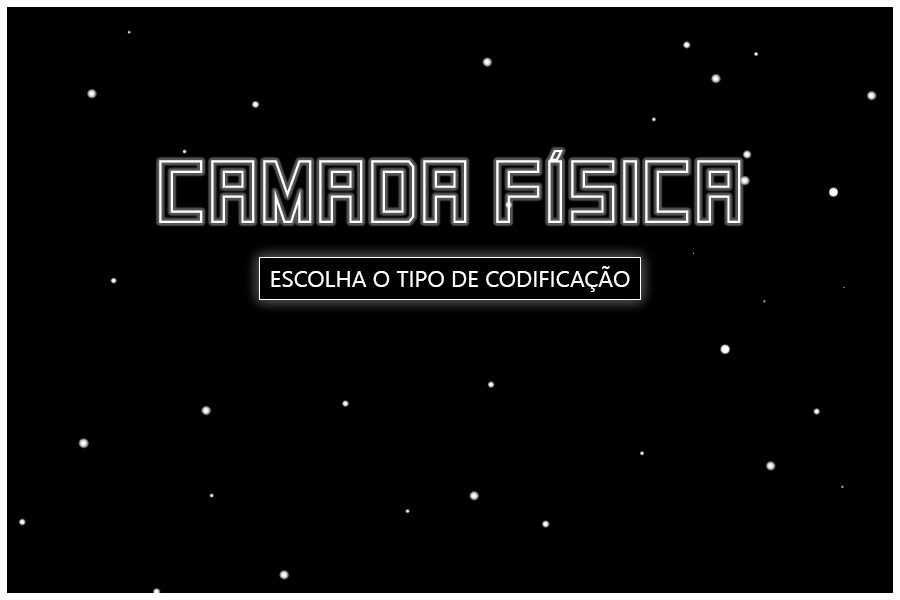
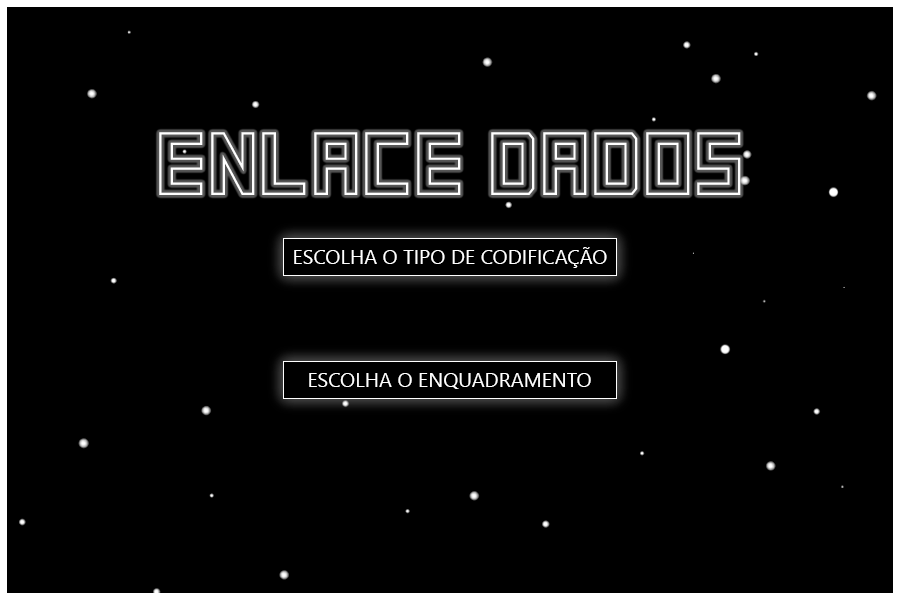
enquad options

Changed region(s): [[0.1556, 0.21, 0.84, 0.51], [0.28, 0.57, 0.7156, 0.69]]

diff --git a/img/style.css b/img/style.css
@@ -5,6 +5,13 @@
     -fx-border-width: 4px;
     -fx-border-color: rgb(255, 255, 255);
 }
+#enlaceBox{
+    -fx-background-color: rgb(0, 0, 0);
+    -fx-font: 14pt "Arial";
+    -fx-font-weight: bold;
+    -fx-border-width: 4px;
+    -fx-border-color: rgb(255, 255, 255);
+}
 #iniciar{
     -fx-background-color: rgb(0, 0, 0);
     -fx-font: 14pt "Arial";

diff --git a/controller/MainControl.java b/controller/MainControl.java
@@ -20,6 +20,7 @@ public class MainControl implements Initializable {
     @FXML private Button voltar;
     @FXML private Button sendButton;
     @FXML private ChoiceBox<String> optionsBox;
+    @FXML private ChoiceBox<String> enlaceBox;
 
     @FXML private TextArea outputText;
     @FXML private TextArea inputText;
@@ -56,6 +57,7 @@ public class MainControl implements Initializable {
 
     //Instanciando a string que vai receber a opcao selecionada no choiceBox
     private String selectedMethod = "";
+    private String selectedEnquad = "";
     String comparationSignal = "1";
     int comparationBinary = 0;
 
@@ -65,6 +67,7 @@ public class MainControl implements Initializable {
     private ImageView transitionImgs[];
 
     private int option;
+    private int enquadOption;
     private int lastBit = 0; 
     int NumCaracteres = 0;
 
@@ -73,12 +76,21 @@ public class MainControl implements Initializable {
       selectedMethod = optionsBox.getSelectionModel().getSelectedItem();
     }
 
+    @FXML
+    void enlaceList(ActionEvent event) {
+      selectedEnquad = enlaceBox.getSelectionModel().getSelectedItem();
+    }
+
     @Override
     public void initialize(URL location, ResourceBundle resources) {
       optionsBox.getItems().addAll("Cod. Binaria", "Cod. Manchester", "Cod. Manchester Diferencial");
-
       //adiciona listeners para as ChoiceBox
       optionsBox.setOnAction(event -> optionsList(event));
+
+      enlaceBox.getItems().addAll("Contagem de caracteres", "Insercao de bytes", "Insercao de bits", "Violacao da Camada Fisica");
+
+      //adiciona listeners para as ChoiceBox
+      enlaceBox.setOnAction(event -> enlaceList(event));
 
       executionScreenImage.setVisible(false);
       inputText.setVisible(false);
@@ -119,9 +131,11 @@ public class MainControl implements Initializable {
   ****************************************************************** */
   @FXML
   void startButton(ActionEvent event) {
-    if (!selectedMethod.isEmpty()) { //verifica se o usuario escolheu alguma opcao
+    if (!selectedMethod.isEmpty() && !selectedEnquad.isEmpty()) { //verifica se o usuario escolheu alguma opcao
       optionsBox.setVisible(false);
       optionsBox.setDisable(true);
+      enlaceBox.setVisible(false);
+      enlaceBox.setDisable(true);
       iniciar.setVisible(false);
       iniciar.setDisable(true);
       
@@ -181,6 +195,8 @@ public class MainControl implements Initializable {
     startScreenImage.setVisible(true);
     optionsBox.setVisible(true);
     optionsBox.setDisable(false);
+    enlaceBox.setVisible(true);
+    enlaceBox.setDisable(false);
     iniciar.setVisible(true);
     iniciar.setDisable(false);
 
@@ -221,6 +237,27 @@ public class MainControl implements Initializable {
       System.out.println("Deu ruim!");
     }
     return option;
+  }//fim do metodo getPosition()
+
+    /********************************************************************
+  * Metodo: getCodificacao()
+  * Funcao: atribui valores inteiros para as opcoes de codificao escolhida pelo usuario 
+  * Parametros: nenhum
+  * Retorno: int option = opcao escolhida
+  ****************************************************************** */
+  public int getEnquad(){
+    if(selectedEnquad == "Contagem de caracteres"){
+      enquadOption = 0;
+    } else if(selectedEnquad == "Insercao de bytes") {
+      enquadOption = 1;
+    } else if (selectedEnquad == "Insercao de bits"){
+      enquadOption = 2;
+    } else if (selectedEnquad ==  "Violacao da Camada Fisica"){
+      enquadOption = 3;
+    } else {
+      System.out.println("Deu ruim!");
+    }
+    return enquadOption;
   }//fim do metodo getPosition()
   
   public void setNumCaracteres(int numCaracteres) {
